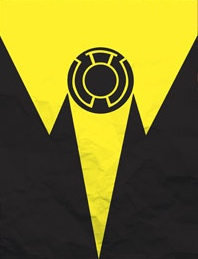
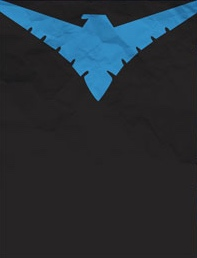
replaced sinestro with Nightwing

diff --git a/script.js b/script.js
@@ -48,6 +48,7 @@ $(document).ready(() => {
         let aquaman = new Audio("/sounds2/aquaman.mp3");
         let greenLantern = new Audio("/sounds2/greenLantern.mp3");
         let captainMarvel = new Audio("/sounds2/shazam.mp3");
+        let nightwing = new Audio("/sounds2/nightwing.mp3");
 
         //add a class to the card
         $(this).toggleClass("is_not_flipped is_flipped");
@@ -79,7 +80,7 @@ $(document).ready(() => {
                         greenLantern.play();
                         break;
                     case "8":
-                        sinestro.play();
+                        nightwing.play();
                         break;
                     default:
                         console.log($(".is_flipped").eq(0).attr("value"))
